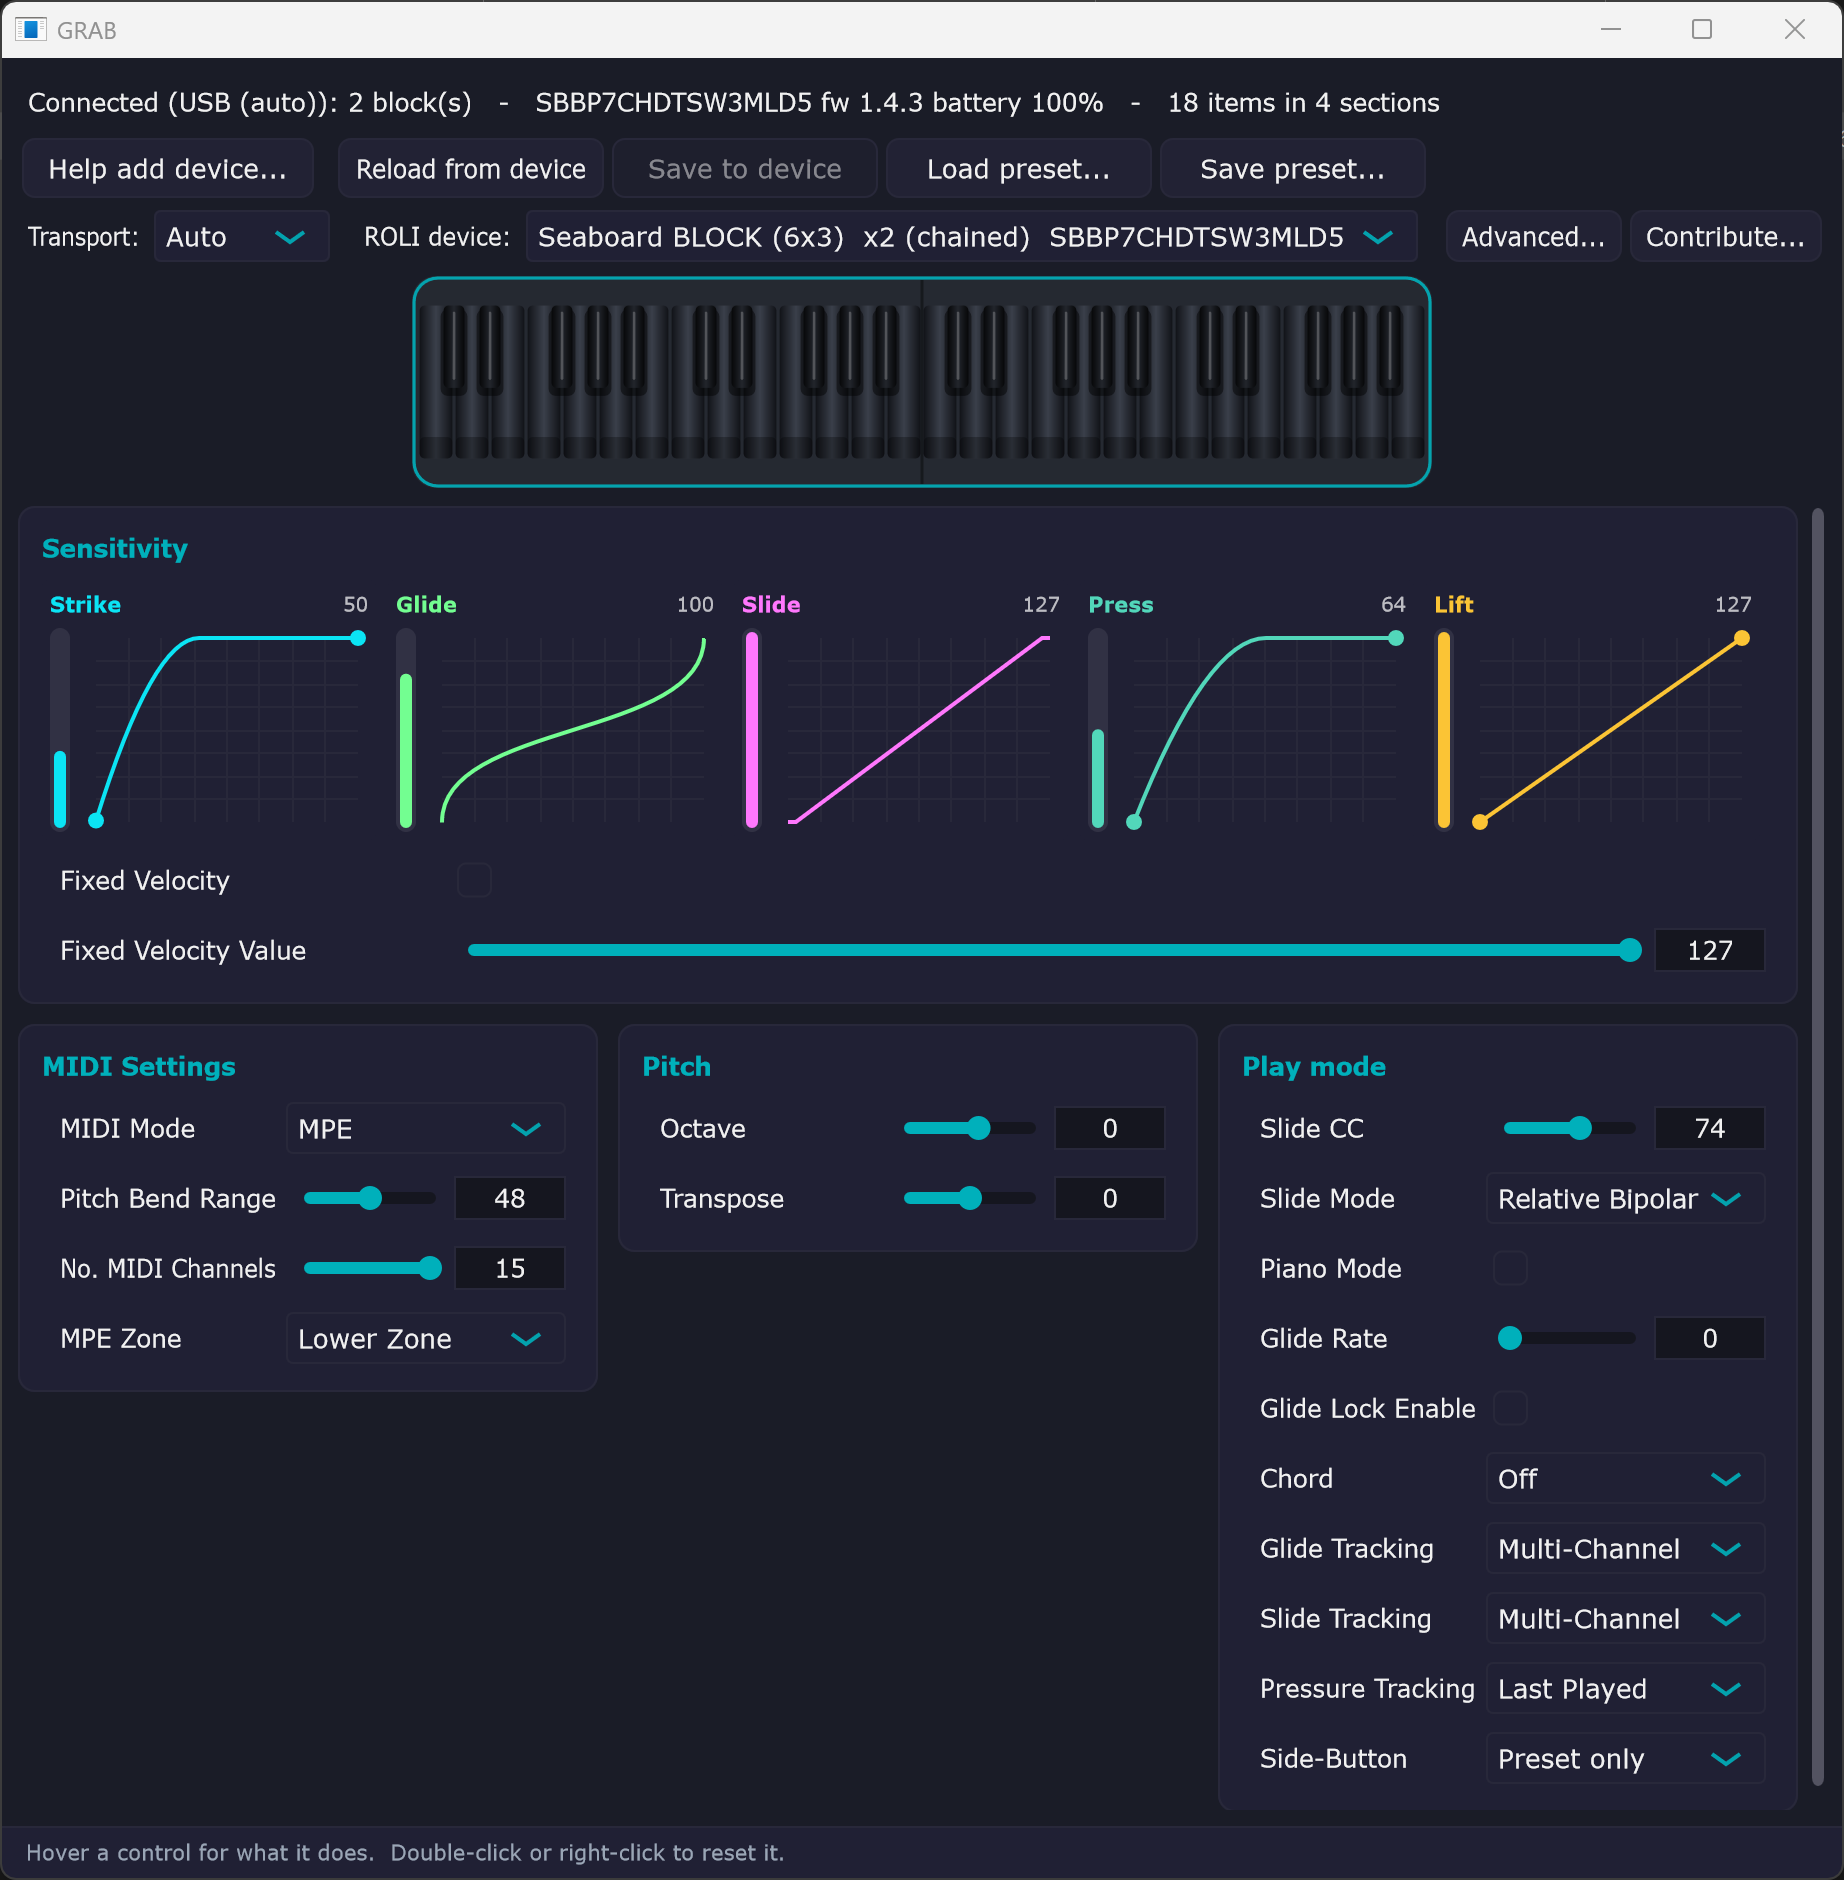
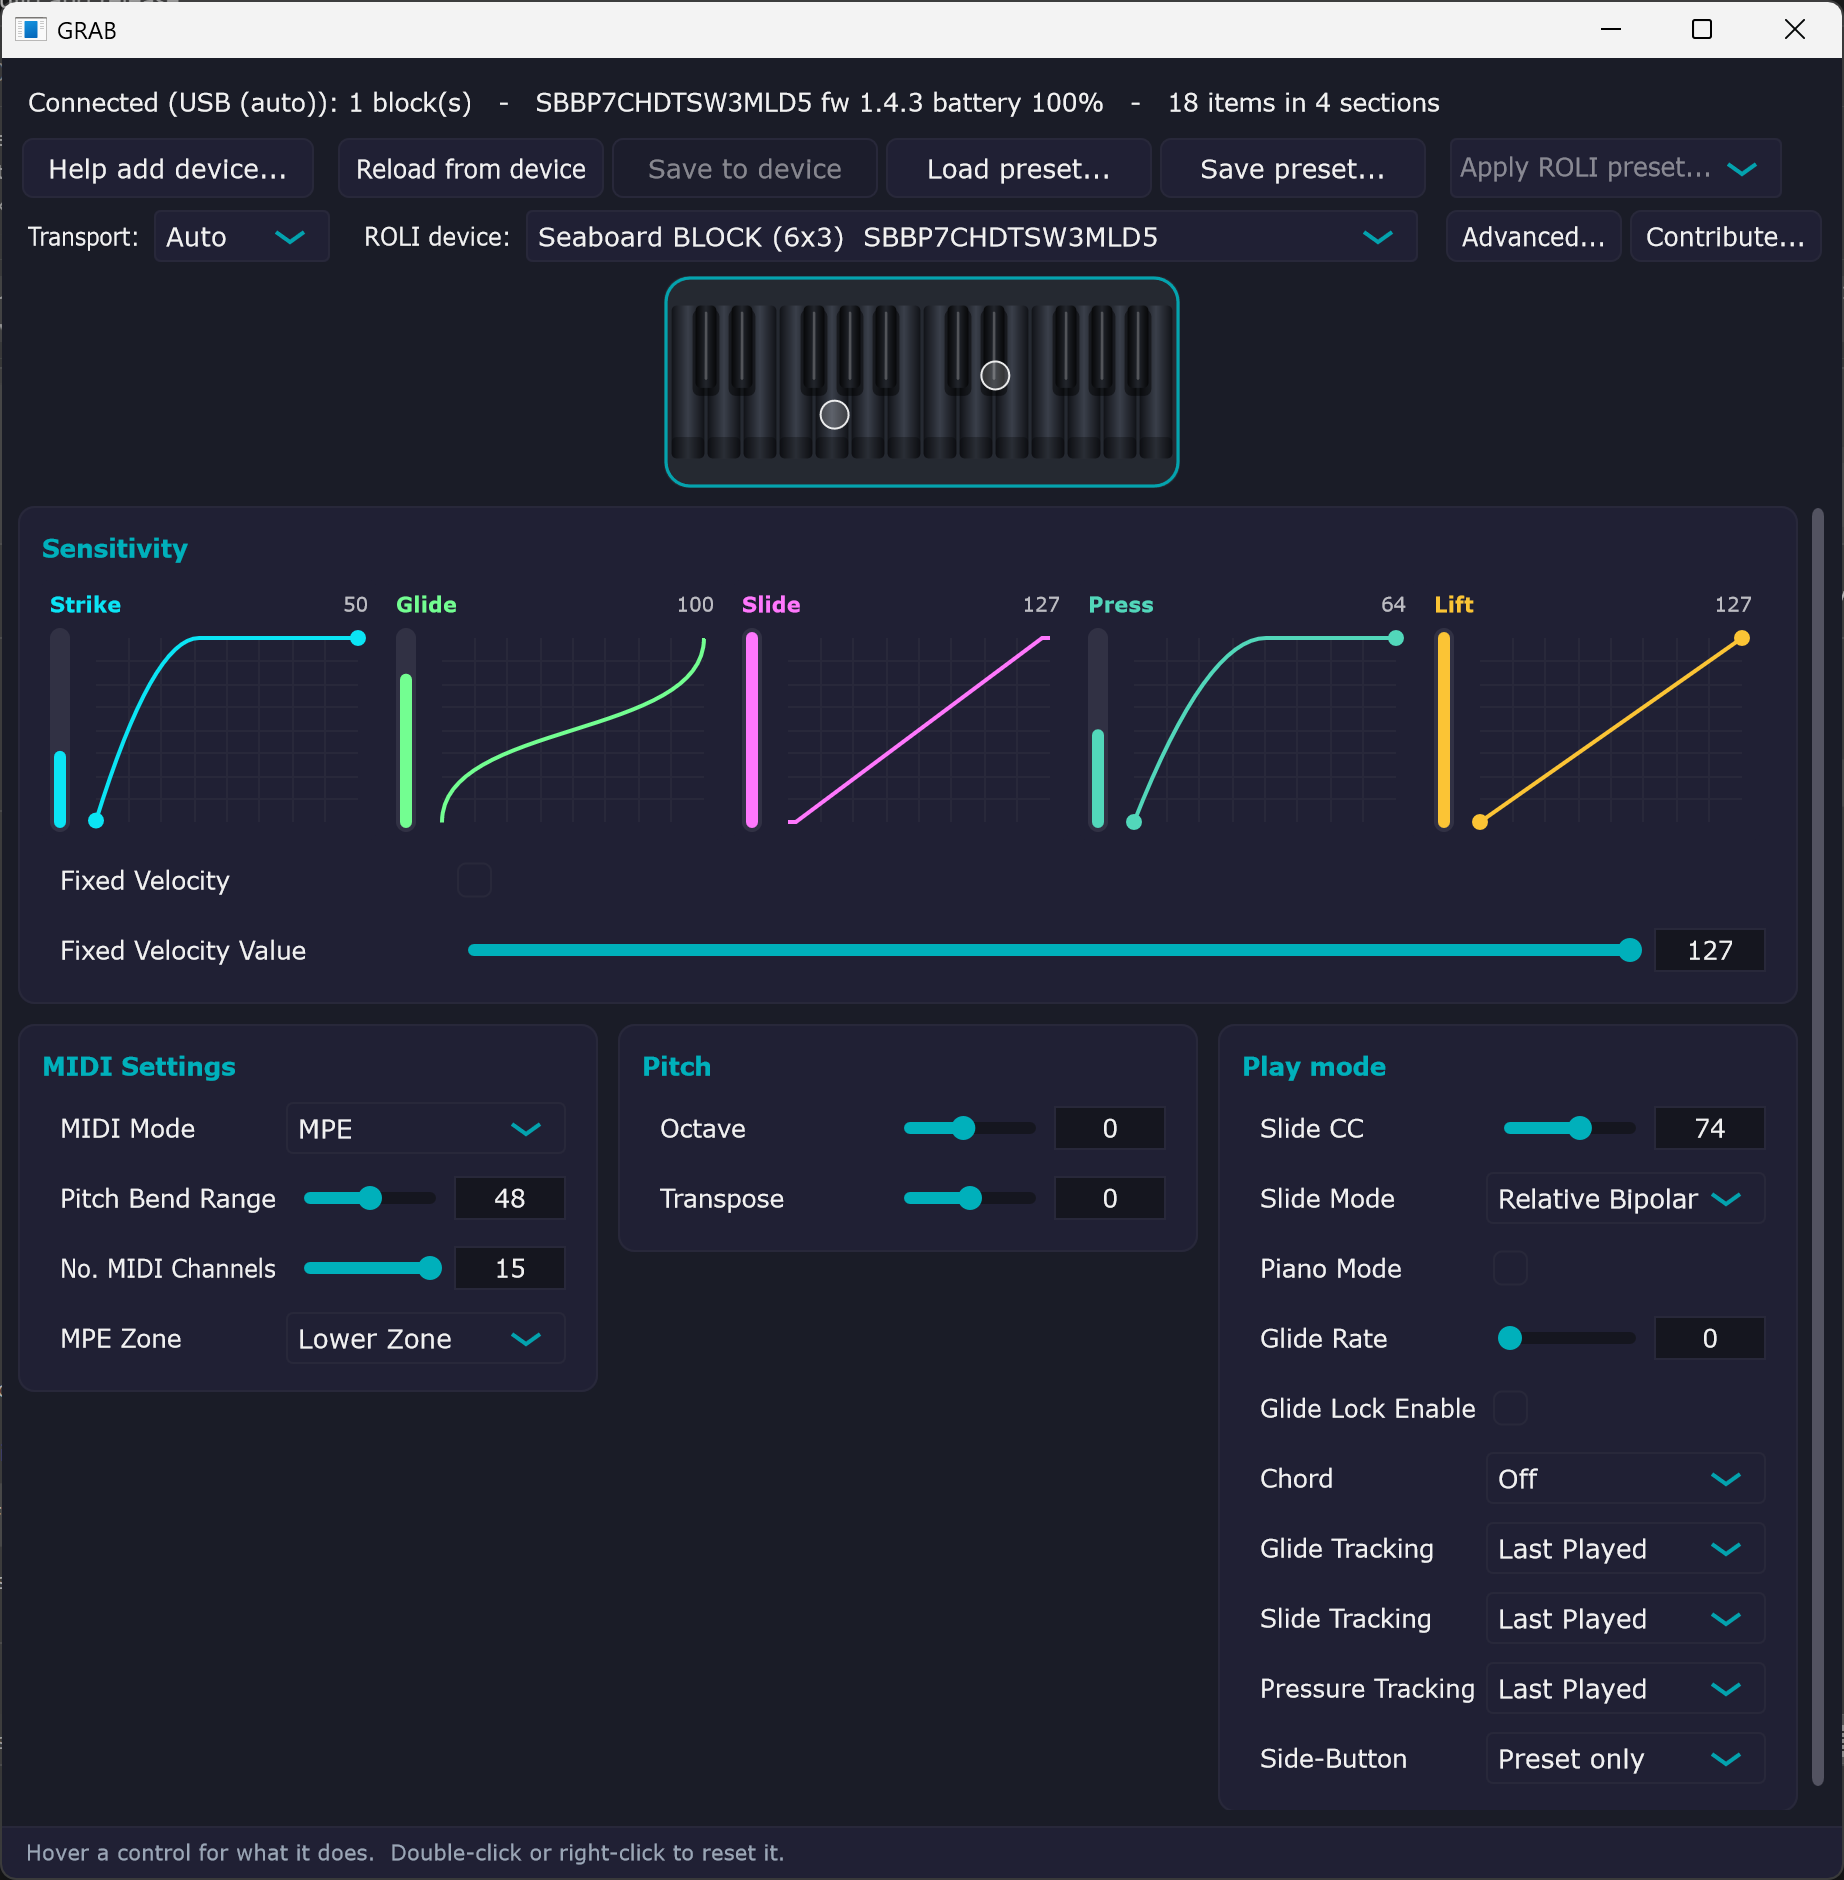
docs: v0.1.19 screenshot, Linux downloads, RISE preset note

diff --git a/README.md b/README.md
@@ -10,7 +10,7 @@ instruments configurable and self-documents their protocol.
 
 <p align="center">
   <img src="docs/grab-screenshot.png" width="560"
-       alt="GRAB's interface: colour-coded 5D sensitivity curves across the top, with MIDI settings, play mode and a RISE MIDI CC fader panel in cards below.">
+       alt="GRAB configuring a Seaboard Block: colour-coded 5D sensitivity curves with live touch rings on the keyboard graphic, and MIDI settings, pitch and play-mode cards below.">
 </p>
 
 ## Supported devices
@@ -83,8 +83,9 @@ connect, and run.
    [**latest release**](../../releases/latest):
    - **Windows** → `GRAB-<version>-windows.zip`
    - **macOS** → `GRAB-<version>-macos.zip` (universal — Apple Silicon + Intel)
+   - **Linux** → `GRAB-<version>-linux.tar.gz` (x86_64; built on Ubuntu 22.04 for wide compatibility)
 
-   Each zip also includes the `seaprobe` / `seadecode` command-line tools.
+   Each archive also includes the `seaprobe` / `seadecode` command-line tools.
 2. **Unzip, then clear the "downloaded from the internet" flag** so the OS will open
    the unsigned app (the builds have no paid signing certificates):
    - **Windows:** right-click `GRAB.exe` → Properties → **Unblock** (or, in
@@ -189,8 +190,8 @@ prefilled GitHub issue** instead of submitting.
 ## Building from source
 Windows, Visual Studio 2022/2026 + MSVC. Built with **JUCE 8** + **CMake** (no
 Projucer); the code is portable and the `sea_sysex` decoder has no JUCE dependency.
-macOS/Linux build the same way (CMake picks the native generator). CI builds Windows
-and universal macOS on every push.
+macOS/Linux build the same way (CMake picks the native generator). CI builds
+**Windows, universal macOS, and Linux** for every tagged release.
 
 ```sh
 cmake -S . -B build -G "Visual Studio 18 2026" -A x64   # first run fetches JUCE 8

diff --git a/RISE-GRAND.md b/RISE-GRAND.md
@@ -9,6 +9,12 @@ hides those (they're writable, just not readable on that firmware). The **GRAND*
 unconfirmed. The RISE 2 protocol below is confirmed on that device; the rest of this document
 collects what is known so far for the other models.
 
+**Presets (v0.1.19):** GRAB's RISE page ships ROLI's four built-in presets — **MPE / Multi
+Channel / Single Channel / Piano** — transcribed from Dashboard's `Rise.littlefootModes/*.mode`
+files (see "Config parameters — reference" below). Note the RISE **Piano** preset is just
+Single Channel with **Glide Sensitivity 0** — the RISE has no "Piano Mode" flag (unlike the
+Seaboard Block, whose Piano preset sets that flag and zeroes Slide/Press/Lift instead).
+
 ## How RISE/GRAND differ from BLOCKS
 - `roli_blocks_basics` (the library this tool is built on) has **no RISE/GRAND
   device type** — ROLI Dashboard drives them through a *separate* code path, not
